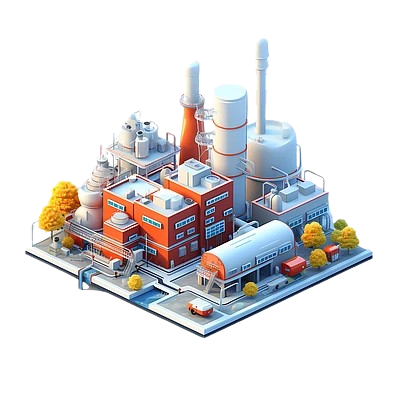
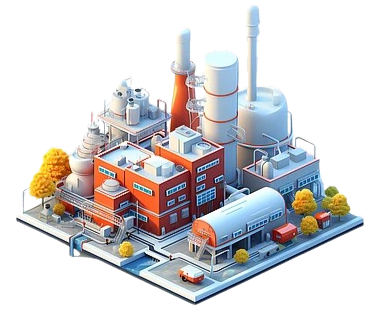
home page

diff --git a/index.html b/index.html
@@ -56,22 +56,44 @@
 
   <main class="main">
 
-    <!-- Hero Section -->
     <section id="hero" class="hero section dark-background">
 
+      <img src="assets/img/hero-bg1.jpg" alt="" data-aos="fade-in" class="aos-init aos-animate">
+
       <div class="container">
-        <div class="row gy-4">
-          <div class="col-lg-6 order-2 order-lg-1 d-flex flex-column justify-content-center" data-aos="zoom-out">
-            <h1>Welcome to Eternity Solution Company</h1>
+
+        <div class="row justify-content-center text-center aos-init aos-animate" data-aos="fade-up" data-aos-delay="100">
+          <div class="col-xl-6 col-lg-8">
+            <h2>Welcome to</h2>
+            <h2>Eternity Solution Company</h2>
             <p>Deals in All Types of Industrial Solutions</p>
           </div>
-          <div class="col-lg-6 order-1 order-lg-2 hero-img" data-aos="zoom-out" data-aos-delay="200">
-            <img src="assets/img/hero-img.png" class="img-fluid animated" alt="">
+        </div>
+
+        <div class="row gy-4 mt-5 justify-content-center aos-init aos-animate" data-aos="fade-up" data-aos-delay="200">
+          <div class="col-xl-2 col-md-4 aos-init aos-animate" data-aos="fade-up" data-aos-delay="300">
+            <div class="icon-box">
+              <i class="bi bi-tools"></i>
+              <h3><a href="">Air Compressor</a></h3>
+            </div>
+          </div>
+          <div class="col-xl-2 col-md-4 aos-init aos-animate" data-aos="fade-up" data-aos-delay="400">
+            <div class="icon-box">
+              <i class="bi bi-diagram-3"></i>
+              <h3><a href="">Air Pipeline</a></h3>
+            </div>
+          </div>
+          <div class="col-xl-2 col-md-4 aos-init aos-animate" data-aos="fade-up" data-aos-delay="500">
+            <div class="icon-box">
+              <i class="bi bi-arrows-move"></i>
+              <h3><a href="">Hoist & Crane</a></h3>
+            </div>
           </div>
         </div>
+
       </div>
 
-    </section><!-- /Hero Section -->
+    </section>
 
     <!-- Clients Section -->
     <section id="clients" class="clients section light-background">
@@ -120,12 +142,12 @@
             <div class="swiper-slide"><img src="assets/img/clients/DeepPneumatics.png" class="img-fluid" alt=""></div>
             <div class="swiper-slide"><img src="assets/img/clients/CarlStahl.png" class="img-fluid" alt=""></div>
             <div class="swiper-slide"><img src="assets/img/clients/Quickair.png" class="img-fluid" alt=""></div>
+            <div class="swiper-slide"><img src="assets/img/clients/CraneCraftIndia.png" class="img-fluid" alt=""></div>
+          
             <div class="swiper-slide"><img src="assets/img/clients/DeepPneumatics.png" class="img-fluid" alt=""></div>
             <div class="swiper-slide"><img src="assets/img/clients/CarlStahl.png" class="img-fluid" alt=""></div>
             <div class="swiper-slide"><img src="assets/img/clients/Quickair.png" class="img-fluid" alt=""></div>
-            <div class="swiper-slide"><img src="assets/img/clients/DeepPneumatics.png" class="img-fluid" alt=""></div>
-            <div class="swiper-slide"><img src="assets/img/clients/CarlStahl.png" class="img-fluid" alt=""></div>
-            <div class="swiper-slide"><img src="assets/img/clients/Quickair.png" class="img-fluid" alt=""></div>
+            <div class="swiper-slide"><img src="assets/img/clients/CraneCraftIndia.png" class="img-fluid" alt=""></div>
           </div>
         </div>
 
@@ -144,20 +166,17 @@
       <div class="container">
 
         <div class="row gy-4">
-
-          <div class="col-lg-6 content" data-aos="fade-up" data-aos-delay="100">
-            <p>Established in Ludhiana, Punjab, Eternity Solution Company has emerged as a dependable distributor and service provider in the industrial equipment space. We specialize in supplying a wide range of air compressors, pneumatic tools, air dryers, hoists, cranes, and associated accessories. Our brand partners include renowned manufacturers known for high-performance and energy-efficient technologies.</p>
-
-    <p>Our solutions are trusted by manufacturing units, workshops, pharmaceutical companies, and various industrial facilities across India. We not only supply machinery but also help organizations implement cost-effective and productivity-enhancing systems.</p> 
-            
+          <div class="col-lg-5 text-align-center" data-aos="fade-up" data-aos-delay="200">
+            <img src="assets/img/hero-img.png" class="img-fluid" alt="" data-aos="zoom-in" data-aos-delay="100">
+               
+          </div>
+          <div class="col-lg-7 content" data-aos="fade-up" data-aos-delay="100">
+            <p>Established in Ludhiana, Punjab, Eternity Solution Company is a trusted dealer specializing in air compressors, air pipeline systems, hoists, and cranes. With a strong commitment to quality, safety, and performance, we provide industrial-grade equipment and solutions that power productivity and ensure operational efficiency across a wide range of industries</p>
+            <p>Our goal is simple: to deliver reliable and efficient systems that meet the demands of modern industrial environments. Whether you need a compact compressor, a complex air piping layout, or a heavy-duty hoisting and lifting solution, Eternity Solution Company has the expertise and products to get the job done right.</p> 
+             <p>Backed by years of industry experience and a customer-first approach, Eternity Solution Company is your reliable partner in industrial automation and lifting solutions. We don’t just deliver products — we deliver peace of mind.</p>   
           </div>
   
-          <div class="col-lg-6" data-aos="fade-up" data-aos-delay="200">
-            <p>Our goal is simple: to deliver reliable and efficient systems that meet the demands of modern industrial environments. Whether you need a compact compressor, a complex air piping layout, or a heavy-duty hoisting and lifting solution, Eternity Solution Company has the expertise and products to get the job done right.</p>
- 
-            <p>Backed by years of industry experience and a customer-first approach, Eternity Solution Company is your reliable partner in industrial automation and lifting solutions. We don’t just deliver products — we deliver peace of mind.</p>
-           
-          </div>
+        
 
         </div>
 
@@ -244,7 +263,7 @@
   
             <div class="col-xl-3 col-md-6 d-flex" data-aos="fade-up" data-aos-delay="100">
               <div class="service-item position-relative">
-                <div class="icon"><i class="bi bi-activity icon"></i></div>
+                <div class="icon"><i class="bi bi-tools icon"></i></div>
                 <h4>Air Compressor Supply & Installation</h4>
                 <p>Reliable supply and expert installation of industrial air compressors.</p>
               </div>
@@ -252,7 +271,7 @@
   
             <div class="col-xl-3 col-md-6 d-flex" data-aos="fade-up" data-aos-delay="200">
               <div class="service-item position-relative">
-                <div class="icon"><i class="bi bi-bounding-box-circles icon"></i></div>
+                <div class="icon"><i class="bi bi-diagram-3 icon"></i></div>
                 <h4>Air Pipeline System Design & Setup</h4>
                 <p>Custom-designed pipeline systems for efficient air distribution.</p>
               </div>
@@ -260,15 +279,15 @@
   
             <div class="col-xl-3 col-md-6 d-flex" data-aos="fade-up" data-aos-delay="300">
               <div class="service-item position-relative">
-                <div class="icon"><i class="bi bi-calendar4-week icon"></i></div>
-                <h4>Hoist & Crane Solutions</h4>
+                <div class="icon"><i class="bi bi-arrows-move icon"></i></div>
+                <h4>Hoist & Crane Lifting Solutions</h4>
                 <p>Durable hoisting and lifting systems tailored for industrial use.</p>
               </div>
             </div><!-- End Service Item -->
   
             <div class="col-xl-3 col-md-6 d-flex" data-aos="fade-up" data-aos-delay="400">
               <div class="service-item position-relative">
-                <div class="icon"><i class="bi bi-broadcast icon"></i></div>
+                <div class="icon"><i class="bi bi-wrench-adjustable icon"></i></div>
                 <h4>Maintenance & After-Sales Support</h4>
                 <p>Comprehensive maintenance and support for long-term system performance.</p>
               </div>
@@ -297,7 +316,7 @@
           <div class="col-lg-4" data-aos="fade-up" data-aos-delay="200">
             <div class="steps-item">
               <div class="steps-image">
-                <img src="assets/img/steps/steps-1.webp" alt="Step 1" class="img-fluid" loading="lazy">
+                <img src="assets/img/steps/steps-1.jpg" alt="Step 1" class="img-fluid" loading="lazy">
               </div>
               <div class="steps-content">
                 <div class="steps-number">01</div>
@@ -324,7 +343,7 @@
           <div class="col-lg-4" data-aos="fade-up" data-aos-delay="300">
             <div class="steps-item">
               <div class="steps-image">
-                <img src="assets/img/steps/steps-2.webp" alt="Step 2" class="img-fluid" loading="lazy">
+                <img src="assets/img/steps/steps-2.jpg" alt="Step 2" class="img-fluid" loading="lazy">
               </div>
               <div class="steps-content">
                 <div class="steps-number">02</div>
@@ -351,7 +370,7 @@
           <div class="col-lg-4" data-aos="fade-up" data-aos-delay="400">
             <div class="steps-item">
               <div class="steps-image">
-                <img src="assets/img/steps/steps-3.webp" alt="Step 3" class="img-fluid" loading="lazy">
+                <img src="assets/img/steps/steps-3.jpg" alt="Step 3" class="img-fluid" loading="lazy">
               </div>
               <div class="steps-content">
                 <div class="steps-number">03</div>
@@ -381,7 +400,7 @@
           <div class="col-lg-4" data-aos="fade-up" data-aos-delay="200">
             <div class="steps-item">
               <div class="steps-image">
-                <img src="assets/img/steps/steps-1.webp" alt="Step 1" class="img-fluid" loading="lazy">
+                <img src="assets/img/steps/steps-4.png" alt="Step 1" class="img-fluid" loading="lazy">
               </div>
               <div class="steps-content">
                 <div class="steps-number">04</div>
@@ -408,7 +427,7 @@
           <div class="col-lg-4" data-aos="fade-up" data-aos-delay="300">
             <div class="steps-item">
               <div class="steps-image">
-                <img src="assets/img/steps/steps-2.webp" alt="Step 2" class="img-fluid" loading="lazy">
+                <img src="assets/img/steps/steps-5.png" alt="Step 2" class="img-fluid" loading="lazy">
               </div>
               <div class="steps-content">
                 <div class="steps-number">05</div>
@@ -435,7 +454,7 @@
           <div class="col-lg-4" data-aos="fade-up" data-aos-delay="400">
             <div class="steps-item">
               <div class="steps-image">
-                <img src="assets/img/steps/steps-3.webp" alt="Step 3" class="img-fluid" loading="lazy">
+                <img src="assets/img/steps/steps-6.png" alt="Step 3" class="img-fluid" loading="lazy">
               </div>
               <div class="steps-content">
                 <div class="steps-number">06</div>
@@ -467,7 +486,7 @@
     <!-- Call To Action Section -->
     <section id="call-to-action" class="call-to-action section dark-background">
 
-      <img src="assets/img/bg/bg-8.webp" alt="">
+      <img src="assets/img/hero-bg2.jpg" alt="">
 
       <div class="container">
 
@@ -896,7 +915,7 @@
       <div class="row gy-4">
         <div class="col-lg-4 col-md-6 footer-about">
           <a href="index.html" class="d-flex align-items-center">
-            <span class="sitename">Eternity Solution Company</span>
+            <img src="assets/img/logo.png" alt=""> 
           </a>
           <div class="footer-contact pt-3">
             <p>B16, Shop no-1, 3rd Floor, Muradpur </p>

diff --git a/assets/css/main.css b/assets/css/main.css
@@ -158,7 +158,7 @@ h6 {
 }
 
 .header .logo img {
-  max-height: 36px;
+  max-height: 100px;
   margin-right: 8px;
 }
 
@@ -849,95 +849,101 @@ section,
 --------------------------------------------------------------*/
 .hero {
   width: 100%;
-  min-height: 80vh;
+  min-height: 100vh;
   position: relative;
-  padding: 120px 0 60px 0;
+  padding: 80px 0;
   display: flex;
   align-items: center;
+  justify-content: center;
 }
 
-.hero h1 {
+.hero img {
+  position: absolute;
+  inset: 0;
+  display: block;
+  width: 100%;
+  height: 100%;
+  object-fit: cover;
+  z-index: 1;
+}
+
+.hero:before {
+  content: "";
+  background: color-mix(in srgb, var(--background-color), transparent 30%);
+  position: absolute;
+  inset: 0;
+  z-index: 2;
+}
+
+.hero .container {
+  position: relative;
+  z-index: 3;
+}
+
+.hero h2 {
   margin: 0;
-  font-size: 45px;
+  font-size: 48px;
   font-weight: 700;
-  line-height: 56px;
 }
 
 .hero p {
+  margin: 10px 0 0 0;
+  font-size: 24px;
   color: color-mix(in srgb, var(--default-color), transparent 30%);
-  margin: 5px 0 30px 0;
-  font-size: 22px;
-  line-height: 1.3;
-  font-weight: 600;
 }
 
-.hero .btn-get-started {
-  color: var(--contrast-color);
-  background: var(--accent-color);
-  font-family: var(--heading-font);
-  font-weight: 500;
-  font-size: 15px;
-  letter-spacing: 1px;
-  display: inline-block;
-  padding: 10px 28px 12px 28px;
-  border-radius: 50px;
-  transition: 0.5s;
+.hero .icon-box {
+  padding: 30px 20px;
+  transition: ease-in-out 0.3s;
+  border: 1px solid color-mix(in srgb, var(--default-color), transparent 70%);
+  height: 100%;
+  text-align: center;
+  display: flex;
+  flex-direction: column;
+  align-items: center;
+  justify-content: center;
 }
 
-.hero .btn-get-started:hover {
-  color: var(--contrast-color);
-  background: color-mix(in srgb, var(--accent-color), transparent 15%);
-}
-
-.hero .btn-watch-video {
-  font-size: 16px;
-  transition: 0.5s;
-  margin-left: 25px;
-  color: var(--default-color);
-  font-weight: 600;
-}
-
-.hero .btn-watch-video i {
-  color: var(--contrast-color);
+.hero .icon-box i {
   font-size: 32px;
-  transition: 0.3s;
-  line-height: 0;
-  margin-right: 8px;
+  line-height: 1;
+  color: color-mix(in srgb, var(--default-color), transparent 20%);
 }
 
-.hero .btn-watch-video:hover {
+.hero .icon-box h3 {
+  font-weight: 700;
+  margin: 10px 0 0 0;
+  padding: 0;
+  line-height: 1;
+  font-size: 20px;
+  line-height: 26px;
+}
+
+.hero .icon-box h3 a {
+  transition: ease-in-out 0.3s;
+  color: var(--contrast-color);
+}
+
+.hero .icon-box:hover {
+  border-color: var(--accent-color);
+}
+
+.hero .icon-box:hover h3 a {
   color: var(--accent-color);
 }
-
-.hero .btn-watch-video:hover i {
-  color: color-mix(in srgb, var(--accent-color), transparent 15%);
+.hero .icon-box i:hover {
+  color: var(--accent-color);
 }
-
-.hero .animated {
-  animation: up-down 2s ease-in-out infinite alternate-reverse both;
+.text-align-center{
+  text-align:center;
 }
-.hero-img{
-  display: flex;
-  justify-content: center;
-  align-items: center;
-  height: 100%;
-}
-
-@media (max-width: 640px) {
-  .hero h1 {
-    font-size: 28px;
-    line-height: 36px;
+@media (max-width: 768px) {
+  .hero h2 {
+    font-size: 32px;
   }
 
   .hero p {
     font-size: 18px;
-    line-height: 24px;
-    margin-bottom: 30px;
-  }
-
-  .hero .btn-get-started,
-  .hero .btn-watch-video {
-    font-size: 13px;
   }
 }
 
